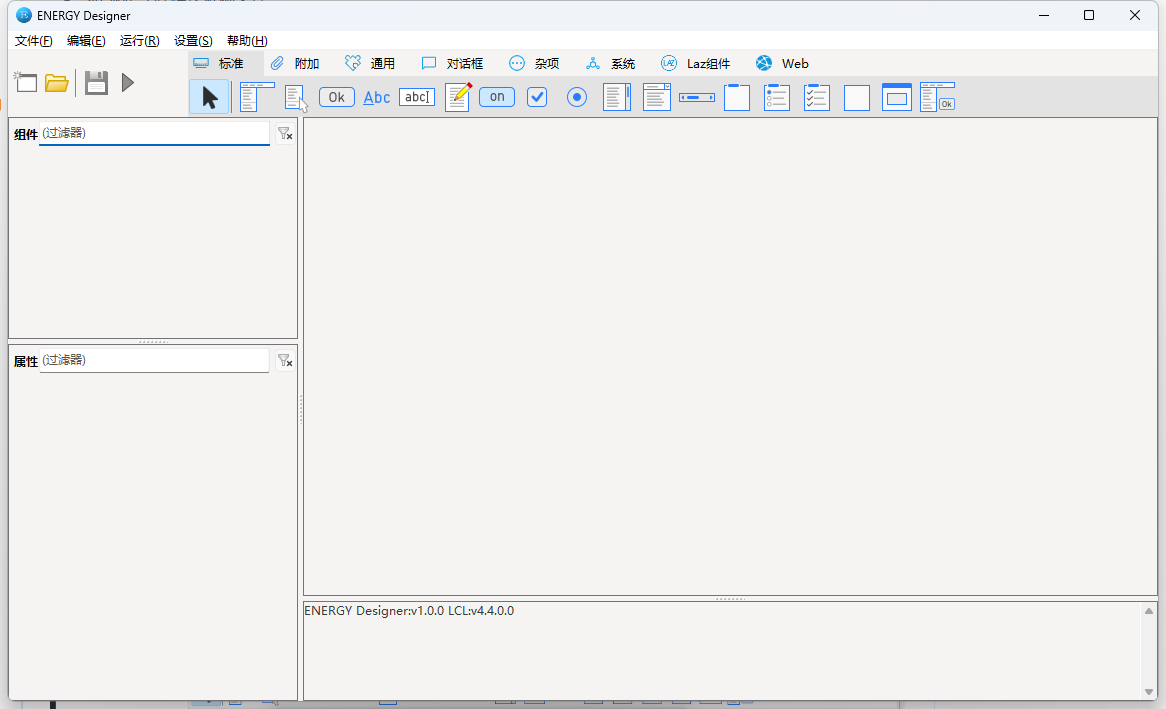
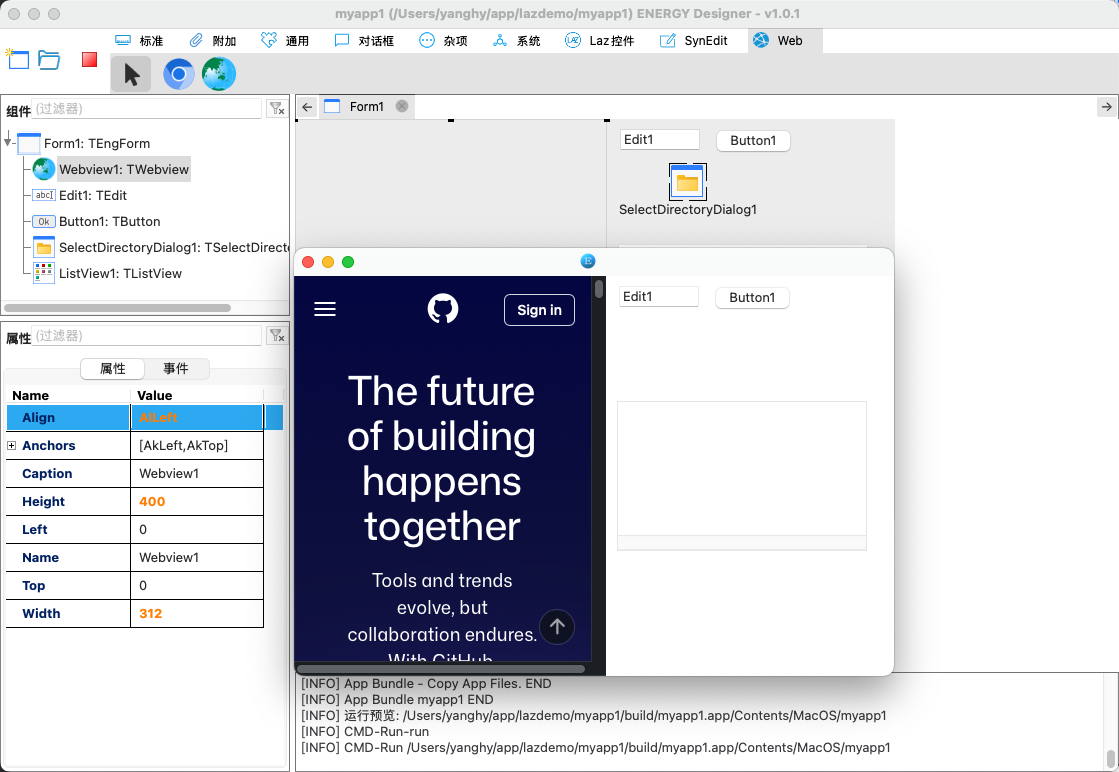
update README

diff --git a/README.md b/README.md
@@ -1,62 +1,87 @@
-## ENERGY GUI Designer
+# ENERGY GUI Designer
 
 ![go-version](https://img.shields.io/github/go-mod/go-version/energye/designer?logo=git&logoColor=green)
 [![github](https://img.shields.io/github/last-commit/energye/energy/main.svg?logo=github&logoColor=green&label=commit)](https://github.com/energye/designer)
 ![repo](https://img.shields.io/github/repo-size/energye/designer.svg?logo=github&logoColor=green&label=repo-size)
+
 ---
 
-### 🌟 项目简介
+## Project Overview
 
-ENERGY Designer 是专为 ENERGY 跨平台 GUI 框架打造、且基于该框架开发的可视化设计器，它采用 Go LCL 组件库实现，提供所见即所得的设计体验与简化的 GUI 设计功能，开发者可通过拖拽控件、设置属性直观操作，快速创建和编辑 GUI 界面的同时，还能自动生成对应的 Go 代码。
+ENERGY Designer is a visual designer specifically built for the ENERGY cross-platform GUI framework, developed using the Go LCL component library. It provides a what-you-see-is-what-you-get (WYSIWYG) design experience with simplified GUI design capabilities. Developers can intuitively create and edit GUI interfaces by dragging controls and setting properties, while automatically generating corresponding Go source code.
 
-### 核心特性
+## Core Features
 
-####  设计器功能
-- **可视化设计**：所见即所得的 GUI 界面设计体验
-- **控件拖拽**：支持标准控件的拖拽布局
-- **属性编辑**：实时属性和事件设置
-- **组件管理**：完整的组件树查看和管理
-- **预览运行**：实时预览设计效果
+### Designer Functionality
 
-###  使用场景
+- Visual Design: WYSIWYG GUI interface design experience
+- Drag-and-Drop Controls: Support for standard control drag-and-drop layout
+- Property Editing: Real-time property and event configuration
+- Component Management: Complete component tree viewing and management
+- Preview and Run: Preview design effects
+- Code Generation: Automatically convert UI designs to Go source code
+- Multi-Form Support: Support for multi-tab form design
+- Undo/Redo: Support for undoing and redoing design operations
 
-1. **快速原型开发**：快速构建 GUI 应用
-2. **界面设计**：可视化设计复杂的用户界面
-3. **代码生成**：自动生 ENERGY GUI 的代码
-4. **丰富的组件**：原生控件, CEF控件, Webview控件
+### Supported Component Types
 
-*ENERGY Designer - 让 GUI 开发更简单*
+- LCL Native Controls: Standard desktop application controls
+- CEF Controls: Chromium Embedded Framework browser controls
+- WebView Controls: System-native Webview controls (Windows WebView2, Linux WebKit2, macOS WKWebView)
 
-### 安装 Designer
+### Cross-Platform Support
 
-#### 环境
-- 安装 git
-- 安装 golang
-- 执行下面命令
+- Windows: Supports 386 and amd64 architectures
+- macOS: Supports Intel (amd64) and Apple Silicon (arm64) architectures
+- Linux: Supports amd64, 386, arm64, arm architectures
+
+### Use Cases
+
+1. Rapid Prototyping: Quickly build GUI application prototypes
+2. Interface Design: Visually design complex user interfaces
+3. Code Generation: Automatically generate Go code compliant with ENERGY standards
+4. Learning Tool: Help beginners understand GUI programming concepts
+
+*ENERGY Designer - Making GUI Development Easier*
+
+### Installing Designer
+
+#### Requirements
+
+- Install Git
+- Install Golang
+- Execute the following commands
+
 ```cmd
-# 克隆
+Clone the repository
 git clone https://github.com/energye/designer.git
-
-# 进入 designer 目录, 更新模块依赖
+Enter the designer directory and update module dependencies
 go mod tidy
 ```
-- 运行进入 designer 目录
+
+- Run from the designer directory
 
 `go run main.go`
 
-如果有需求，请提 issue, 或加入 QQ 群进行交流（541258627）
+If you have any requirements, please submit an issue or join the QQ group for discussion (541258627).
 
-### 截图
+### Screenshots
 
 ![ENERGY-designer-create-project.png](docs/image/ENERGY-designer-create-project.png)
+![ENERGY-designer-home.png](docs/image/ENERGY-designer-home.png)
+![ENERGY-designer-widget.png](docs/image/ENERGY-designer-widget.png)
+![ENERGY-designer-run.png](docs/image/ENERGY-designer-run.png)
+![ENERGY-designer-config-app.png](docs/image/ENERGY-designer-config-app.png)
+![ENERGY-designer-config-build-1.png](docs/image/ENERGY-designer-config-build-1.png)
+![ENERGY-designer-config-build-2.png](docs/image/ENERGY-designer-config-build-2.png)
+- menu
 
+![ENERGY-designer-menu-run.png](docs/image/ENERGY-designer-menu-run.png)
+![ENERGY-designer-menu-options.png](docs/image/ENERGY-designer-menu-options.png)
+![ENERGY-designer-menu-file.png](docs/image/ENERGY-designer-menu-file.png)
+- main.go
 
-![ENERGY-designer-macOSrun.png.png](docs%2Fimage%2FENERGY-designer-macOSrun.png.png)
+![ENERGY-project-main.go.png](docs/image/ENERGY-project-main.go.png)
+- form1.go
 
-![ENERGY-designer.png](docs%2Fimage%2FENERGY-designer.png)
-
-![ENERGY-designer-linux.png](docs/image/ENERGY-designer-linux.png)
-
-![ENERGY-designer-preview.png](docs%2Fimage%2FENERGY-designer-preview.png)
-
-![ENERGY-designer-linux-preview.png](docs/image/ENERGY-designer-linux-preview.png)
+![ENERGY-project-form1.go.png](docs/image/ENERGY-project-form1.go.png)

diff --git a/README.zh_CN.md b/README.zh_CN.md
@@ -1,0 +1,83 @@
+## ENERGY GUI Designer
+
+![go-version](https://img.shields.io/github/go-mod/go-version/energye/designer?logo=git&logoColor=green)
+[![github](https://img.shields.io/github/last-commit/energye/energy/main.svg?logo=github&logoColor=green&label=commit)](https://github.com/energye/designer)
+![repo](https://img.shields.io/github/repo-size/energye/designer.svg?logo=github&logoColor=green&label=repo-size)
+---
+
+### 🌟 项目简介
+
+ENERGY Designer 是专为 ENERGY 跨平台 GUI 框架打造的可视化设计器，基于 Go LCL 组件库开发。它提供所见即所得的设计体验与简化的 GUI 设计功能，开发者可通过拖拽控件、设置属性进行直观操作，快速创建和编辑 GUI 界面，同时自动生成对应的 Go 代码。
+
+### 核心特性
+
+####  设计器功能
+- 可视化设计：所见即所得的 GUI 界面设计体验
+- 控件拖拽：支持标准控件的拖拽布局
+- 属性编辑：实时属性和事件设置
+- 组件管理：完整的组件树查看和管理
+- 预览运行：预览设计效果
+- 代码生成：自动将 UI 设计转换为 Go 源代码
+- 多窗体支持：支持多标签页窗体设计
+- 撤销恢复：支持设计操作的撤销与恢复
+
+### 支持的组件类型
+
+- LCL 原生控件：标准桌面应用程序控件
+- CEF 控件：Chromium Embedded Framework 浏览器控件
+- WebView 控件：系统原生 Webview 控件（Windows WebView2、Linux WebKit2、macOS WKWebView）
+
+### 跨平台支持
+
+- Windows：支持 386、amd64 架构
+- macOS：支持 Intel (amd64) 和 Apple Silicon (arm64) 架构
+- Linux：支持 amd64、386、arm64、arm 架构
+
+###  使用场景
+
+1. 快速原型开发：快速构建 GUI 应用原型
+2. 界面设计：可视化设计复杂的用户界面
+3. 代码生成：自动生成符合 ENERGY 规范的 Go 代码
+4. 学习工具：帮助初学者理解 GUI 编程概念
+
+*ENERGY Designer - 让 GUI 开发更简单*
+
+### 安装 Designer
+
+#### 环境
+- 安装 git
+- 安装 golang
+- 执行下面命令
+```cmd
+# 克隆
+git clone https://github.com/energye/designer.git
+
+# 进入 designer 目录, 更新模块依赖
+go mod tidy
+```
+- 运行进入 designer 目录
+
+`go run main.go`
+
+如果有需求，请提 issue, 或加入 QQ 群进行交流（541258627）
+
+### 截图
+
+![ENERGY-designer-create-project.png](docs/image/ENERGY-designer-create-project.png)
+![ENERGY-designer-home.png](docs/image/ENERGY-designer-home.png)
+![ENERGY-designer-widget.png](docs/image/ENERGY-designer-widget.png)
+![ENERGY-designer-run.png](docs/image/ENERGY-designer-run.png)
+![ENERGY-designer-config-app.png](docs/image/ENERGY-designer-config-app.png)
+![ENERGY-designer-config-build-1.png](docs/image/ENERGY-designer-config-build-1.png)
+![ENERGY-designer-config-build-2.png](docs/image/ENERGY-designer-config-build-2.png)
+- menu
+
+![ENERGY-designer-menu-run.png](docs/image/ENERGY-designer-menu-run.png)
+![ENERGY-designer-menu-options.png](docs/image/ENERGY-designer-menu-options.png)
+![ENERGY-designer-menu-file.png](docs/image/ENERGY-designer-menu-file.png)
+- main.go
+
+![ENERGY-project-main.go.png](docs/image/ENERGY-project-main.go.png)
+- form1.go
+
+![ENERGY-project-form1.go.png](docs/image/ENERGY-project-form1.go.png)
